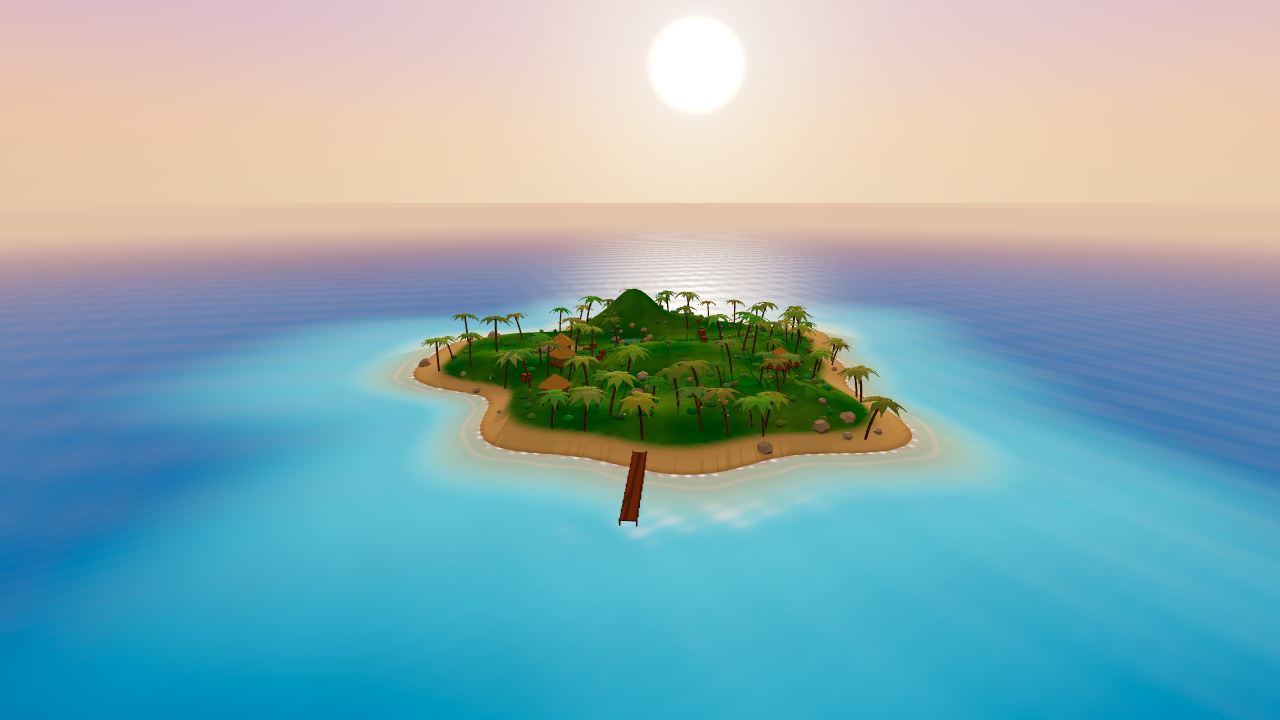
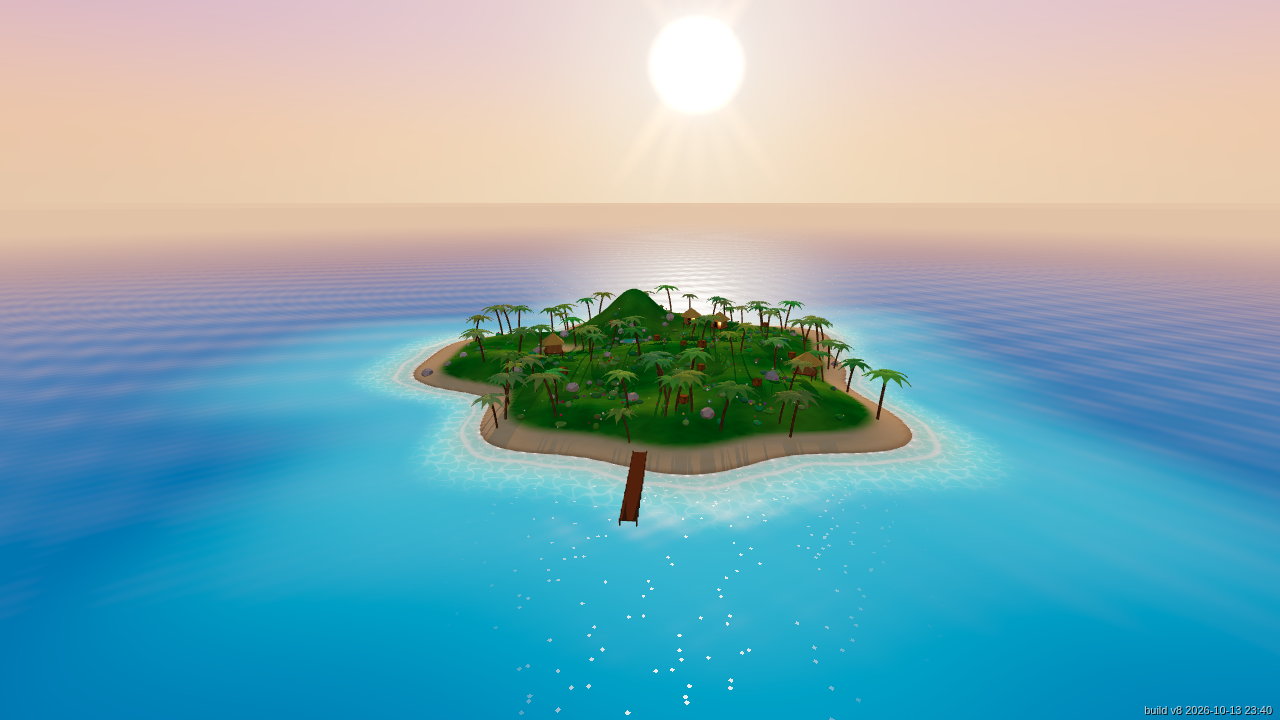
v8: rate-limited eased auto-aim retarget, build version + cache busting, golden-hour lighting, lanterns, fireflies, tropical water shader

diff --git a/main.js b/main.js
@@ -1,13 +1,13 @@
-import * as THREE from 'three';import {makeSoldier} from './soldier.js';import {makeHeli,makeChute} from './heli.js';
-import {buildWorld,groundH,islandD,shoreR,SUN_DIR,FOG_COLOR} from './world.js';
-const $=id=>document.getElementById(id),Q=new URLSearchParams(location.search),DEBUG=Q.get('debug')==='1';
+import * as THREE from 'three';import {makeSoldier} from './soldier.js?v8';import {makeHeli,makeChute} from './heli.js?v8';
+import {buildWorld,groundH,islandD,shoreR,SUN_DIR,FOG_COLOR} from './world.js?v8';
+export const BUILD='v8 2026-10-13 23:40';const $=id=>document.getElementById(id),Q=new URLSearchParams(location.search),DEBUG=Q.get('debug')==='1';
 const MOBILE=matchMedia('(pointer:coarse)').matches||'ontouchstart' in window;if(MOBILE)document.body.classList.add('touch');
 const renderer=new THREE.WebGLRenderer({antialias:!MOBILE,powerPreference:'high-performance'});renderer.setPixelRatio(Math.min(devicePixelRatio,MOBILE?1.5:2));renderer.setSize(innerWidth,innerHeight);
 renderer.shadowMap.enabled=true;renderer.shadowMap.type=THREE.PCFSoftShadowMap;renderer.toneMapping=THREE.ACESFilmicToneMapping;renderer.toneMappingExposure=1.1;renderer.outputColorSpace=THREE.SRGBColorSpace;document.body.appendChild(renderer.domElement);
 const scene=new THREE.Scene();scene.fog=new THREE.Fog(FOG_COLOR,90,520);
 const cam=new THREE.PerspectiveCamera(70,innerWidth/innerHeight,.1,7000);cam.rotation.order='YXZ';
-scene.add(new THREE.HemisphereLight(0xffd2a8,0x3a5230,1.0));
-const sun=new THREE.DirectionalLight(0xffb878,2.6);sun.castShadow=true;const S=MOBILE?1024:2048;sun.shadow.mapSize.set(S,S);
+scene.add(new THREE.HemisphereLight(0xb4c2e8,0x5a4a30,.95));const rim=new THREE.DirectionalLight(0xffd0b0,.35);rim.position.set(60,30,80);scene.add(rim);
+const sun=new THREE.DirectionalLight(0xffb060,3.0);sun.castShadow=true;const S=MOBILE?1024:2048;sun.shadow.mapSize.set(S,S);
 Object.assign(sun.shadow.camera,{left:-30,right:30,top:30,bottom:-30,near:1,far:200});sun.shadow.bias=-.0003;sun.shadow.normalBias=.03;sun.shadow.radius=3;scene.add(sun,sun.target);
 const W=buildWorld(scene,MOBILE);const solids=W.solids;
 const rnd=(a,b)=>a+Math.random()*(b-a);
@@ -67,24 +67,39 @@ function collide(p,r){for(const c of W.circles){const dx=p.x-c.x,dz=p.z-c.z,d=Ma
  const R=Math.hypot(p.x,p.z),lim=shoreR(Math.atan2(p.z,p.x))*.97;if(R>lim){p.x*=lim/R;p.z*=lim/R;}}
 function jump(){if(mode==='play'&&player.position.y<=groundH(player.position.x,player.position.z)+.01){vy=6.5;snd(300,.15,'sine',.1,2);}}
 // ---------- shooting / auto-aim ----------
-const rc=new THREE.Raycaster(),center=new THREE.Vector2(0,0),tmpV=new THREE.Vector3(),losRc=new THREE.Raycaster();let lockT=null,losT=0,retWait=0,slow=null;const RET_DELAY=.25,RET_DUR=.7;
+const rc=new THREE.Raycaster(),center=new THREE.Vector2(0,0),tmpV=new THREE.Vector3(),losRc=new THREE.Raycaster();
+// ---- auto-aim state machine ----
+// firstLock: true only between FIRE press and the first time the aim settles on a target.
+// Every other target change (kill, LOS loss) is a "retarget": 0.25s pause, then an ease-in-out swing whose
+// duration is chosen so the PEAK turn rate stays <= ~110 deg/s, minimum 0.9s. No shots at a target until aligned.
+let lockT=null,losT=0,firstLock=false,wasFiring=false,pause=0,swing=null,aligned=false;
+const RET_PAUSE=.25,RET_MIN=.9,PEAK=110*Math.PI/180,FIRST_DUR=.3,ALIGN=2.5*Math.PI/180;
 const angD=a=>Math.atan2(Math.sin(a),Math.cos(a));
 function los(z){z.userData.head.getWorldPosition(tmpV);const d=tmpV.clone().sub(cam.position);const L=d.length();losRc.set(cam.position,d.normalize());losRc.far=L-.3;return !losRc.intersectObjects(solids,false).length;}
-function autoAim(dt){if(!(firing||fireId!==null)){lockT=null;slow=null;retWait=0;return;}
- if(lockT&&(lockT.userData.dead||!zombies.includes(lockT))){lockT=null;retWait=RET_DELAY;slow=null;}
- if(retWait>0){retWait-=dt;if(retWait>0)return;retWait=-1;}
- if(lockT&&(losT-=dt)<=0){losT=.25;if(!los(lockT))lockT=null;}
+function aimAngles(z){z.userData.head.getWorldPosition(tmpV);const d=tmpV.clone().sub(cam.position).normalize();return[Math.atan2(-d.x,-d.z),THREE.MathUtils.clamp(Math.asin(d.y),-.7,.55)];}
+function dropLock(){lockT=null;swing=null;aligned=false;if(!firstLock)pause=RET_PAUSE;}
+function autoAim(dt){const want=firing||fireId!==null;
+ if(!want){lockT=null;swing=null;aligned=false;pause=0;wasFiring=false;return;}
+ if(!wasFiring){wasFiring=true;firstLock=true;}
+ if(lockT&&(lockT.userData.dead||!zombies.includes(lockT))){dropLock();aimEv('kill');}
+ if(lockT&&(losT-=dt)<=0){losT=.25;if(!los(lockT)){dropLock();aimEv('los');}}
+ if(pause>0){pause-=dt;return;}
  if(!lockT){let best=null,bs=1e9;const f=new THREE.Vector3(-Math.sin(yaw),0,-Math.cos(yaw));
   for(const z of zombies){if(z.userData.dead)continue;const d=z.position.clone().sub(player.position);d.y=0;const dist=d.length();if(dist>45)continue;
-   const s=dist+Math.acos(THREE.MathUtils.clamp(d.normalize().dot(f),-1,1))*6;if(s<bs&&los(z)){bs=s;best=z;}}lockT=best;losT=.25;if(best&&retWait<0)slow={t:0,y0:yaw,p0:pitch};retWait=0;}
- if(!lockT)return;lockT.userData.head.getWorldPosition(tmpV);const d=tmpV.clone().sub(cam.position).normalize();
- const ty=Math.atan2(-d.x,-d.z),tp=THREE.MathUtils.clamp(Math.asin(d.y),-.7,.55);
- if(slow){slow.t+=dt;const u=Math.min(1,slow.t/RET_DUR),e=u*u*(3-2*u);yaw=slow.y0+angD(ty-slow.y0)*e;pitch=slow.p0+(tp-slow.p0)*e;if(u>=1)slow=null;}
- else{const k=Math.min(1,dt*12);yaw+=angD(ty-yaw)*k;pitch+=(tp-pitch)*k;}}
-function updLock(){const el=$('lock');if(!lockT||lockT.userData.dead){el.style.display='none';return;}el.style.opacity=slow?.5:1;lockT.userData.head.getWorldPosition(tmpV);tmpV.project(cam);
+   const s=dist+Math.acos(THREE.MathUtils.clamp(d.normalize().dot(f),-1,1))*6;if(s<bs&&los(z)){bs=s;best=z;}}
+  if(!best)return;lockT=best;losT=.25;aligned=false;const[ty,tp]=aimAngles(best);const ang=Math.hypot(angD(ty-yaw),tp-pitch);
+  // smoothstep peak speed = 1.5*ang/dur  ->  dur >= 1.5*ang/PEAK
+  swing={t:0,y0:yaw,p0:pitch,dur:firstLock?FIRST_DUR:Math.max(RET_MIN,1.5*ang/PEAK)};aimEv(firstLock?'firstlock':'retarget',swing.dur);}
+ const[ty,tp]=aimAngles(lockT);
+ if(swing){swing.t+=dt;const u=Math.min(1,swing.t/swing.dur),e=u*u*(3-2*u);yaw=swing.y0+angD(ty-swing.y0)*e;pitch=swing.p0+(tp-swing.p0)*e;if(u>=1)swing=null;}
+ else{const k=Math.min(1,dt*10);yaw+=angD(ty-yaw)*k;pitch+=(tp-pitch)*k;} // tracking a moving, already-acquired head
+ aligned=!swing&&Math.hypot(angD(ty-yaw),tp-pitch)<ALIGN;if(aligned)firstLock=false;}
+const aimLog=[];function aimEv(e,x){if(DEBUG)aimLog.push({t:gT,ev:e,x});}
+function aimErrDeg(){if(!lockT)return null;const[ty,tp]=aimAngles(lockT);return Math.hypot(angD(ty-yaw),tp-pitch)*180/Math.PI;}
+function updLock(){const el=$('lock');if(!lockT||lockT.userData.dead){el.style.display='none';return;}el.style.opacity=aligned?1:.45;lockT.userData.head.getWorldPosition(tmpV);tmpV.project(cam);
  if(tmpV.z>1){el.style.display='none';return;}el.style.display='block';el.style.left=((tmpV.x+1)/2*innerWidth)+'px';el.style.top=((1-tmpV.y)/2*innerHeight)+'px';}
 function shoot(){const u=player.userData;u.flash.visible=true;u.flashLight.intensity=8;u.flash.rotation.z=Math.random()*3;setTimeout(()=>{u.flash.visible=false;u.flashLight.intensity=0;},45);snd(900,.08,'square',.12,.2);
- if(lockT&&!slow){lockT.userData.head.getWorldPosition(tmpV);rc.set(cam.position,tmpV.clone().sub(cam.position).normalize());}else rc.setFromCamera(center,cam);rc.far=150;
+ if(lockT&&aligned){lockT.userData.head.getWorldPosition(tmpV);rc.set(cam.position,tmpV.clone().sub(cam.position).normalize());}else rc.setFromCamera(center,cam);rc.far=150;
  const hits=rc.intersectObjects([...zombies.filter(z=>!z.userData.dead),...solids,W.ground],true);
  const o=new THREE.Vector3();u.muzzle.getWorldPosition(o);let end=hits.length?hits[0].point:rc.ray.at(150,new THREE.Vector3());
  if(hits.length){const z=hits[0].object.userData.root;if(z&&!z.userData.dead){z.userData.hp--;z.userData.hit=.1;const p=end.clone().sub(o).setY(0).normalize();z.position.addScaledVector(p,.25);
@@ -137,7 +152,7 @@ function spawnPlayer(){let x=0,z=0;for(let k=0;k<50;k++){x=rnd(-6,6);z=rnd(-6,6)
 function startPlay(){mode='play';player.rotation.set(0,yaw+Math.PI,0);pitch=-.1;vy=0;document.body.classList.add('playing');running=true;wave=0;nextWave();updHud();}
 $('skipBtn').addEventListener('click',e=>{e.stopPropagation();skipIntro();});
 // ---------- game flow ----------
-function reset(){toSpawn=0;debris.forEach(d=>scene.remove(d.o));debris=[];lockT=null;zombies.forEach(z=>scene.remove(z));zombies=[];score=0;wave=0;hp=100;vy=0;updHud();}
+function reset(){toSpawn=0;debris.forEach(d=>scene.remove(d.o));debris=[];lockT=null;swing=null;wasFiring=false;zombies.forEach(z=>scene.remove(z));zombies=[];score=0;wave=0;hp=100;vy=0;updHud();}
 function nextWave(){if(mode!=='play')return;wave++;toSpawn=4+wave*3;spawnT=1;snd(200,.6,'sawtooth',.1,2);}
 function begin(){ac=ac||new(window.AudioContext||window.webkitAudioContext)();ac.resume&&ac.resume();$('start').classList.add('hide');$('over').classList.add('hide');reset();fireT=0;
  if(introDone){spawnPlayer();yaw=0;startPlay();}else startIntro();}
@@ -145,11 +160,11 @@ $('startBtn').onclick=begin;$('restartBtn').onclick=begin;
 // ---------- loop ----------
 const camRc=new THREE.Raycaster(),clock=new THREE.Clock(),closeup=Q.get('view')==='closeup';let camOverride=null;
 spawnPlayer();
-function loop(){requestAnimationFrame(loop);const dt=Math.min(clock.getDelta(),.05),T=clock.elapsedTime;const P=player.position;
+let gT=0;function loop(){requestAnimationFrame(loop);const dt=Math.min(clock.getDelta(),.05),T=clock.elapsedTime;gT+=dt;const P=player.position;
  if(mode==='intro')intro(dt);updHeli(dt);
  if(running){const v=moveInput();const m=v.length();const gh0=groundH(P.x,P.z);const spd=gh0<.3?4:6.5;P.addScaledVector(v,spd*dt);collide(P,.4);curSpeed=m;
   const gh=groundH(P.x,P.z);vy-=20*dt;P.y+=vy*dt;if(P.y<=gh){P.y=gh;vy=0;}player.rotation.y=yaw+Math.PI;
-  autoAim(dt);fireT-=dt;if((firing||fireId!==null)&&fireT<=0){shoot();fireT=.1;}
+  autoAim(dt);fireT-=dt;if((firing||fireId!==null)&&fireT<=0&&(aligned||(!lockT&&pause<=0))){shoot();fireT=.1;}
   const alive=zombies.filter(z=>!z.userData.dead).length;
   if(toSpawn>0){spawnT-=dt;if(spawnT<=0&&alive<ZCAP){spawn();toSpawn--;spawnT=Math.max(.35,1.4-wave*.1);}}else if(!zombies.length){nextWave();updHud();}
   for(const z of [...zombies]){const u=z.userData;
@@ -161,6 +176,7 @@ function loop(){requestAnimationFrame(loop);const dt=Math.min(clock.getDelta(),.
    else if(P.y-z.position.y<1.2){hp-=22*dt;updHud();if(Math.random()<dt*3)snd(80,.2,'sawtooth',.1,.5);
     if(hp<=0){running=false;mode='over';lockT=null;firing=false;fireId=null;document.body.classList.remove('playing');document.exitPointerLock&&document.exitPointerLock();$('final').textContent=`Score ${score} · Wave ${wave}`;$('over').classList.remove('hide');snd(300,1.2,'sawtooth',.2,.1);}}
    z.position.y=groundH(z.position.x,z.position.z);}}
+ if(DEBUG&&running&&(firing||fireId!==null))aimLog.push({t:gT,yaw:yaw*180/Math.PI,pitch:pitch*180/Math.PI,err:aimErrDeg(),aligned,lock:lockT?zombies.indexOf(lockT):-1});
  updDebris(dt);updLock();
  player.userData.animate(T,mode==='intro'?0:curSpeed,mode==='intro'?(iPhase==='free'||iPhase==='chute'):P.y>groundH(P.x,P.z)+.05,dt);
  for(const t of [...tracers]){t.userData.life-=dt;t.material.opacity=t.userData.life/.06;if(t.userData.life<=0){scene.remove(t);t.geometry.dispose();tracers.splice(tracers.indexOf(t),1);}}
@@ -175,8 +191,9 @@ function loop(){requestAnimationFrame(loop);const dt=Math.min(clock.getDelta(),.
  const nn=alt>150?1.5:.1;if(cam.near!==nn){cam.near=nn;cam.updateProjectionMatrix();}
  const sc=mode==='intro'?(iPhase==='heli'?heli.position:P):P;sun.position.copy(sc).addScaledVector(SUN_DIR,90);sun.target.position.copy(sc);
  W.update(T,cam);renderer.render(scene,cam);}
+$('ver').textContent='build '+BUILD;
 if(closeup){$('start').classList.add('hide');$('hud').classList.add('hide');}
-if(DEBUG)window.__game={get mode(){return mode},get phase(){return iPhase},get score(){return score},get heads(){return headsDetached},get yaw(){return yaw},get alt(){return player.position.y},get retarget(){return {slow:!!slow,retWait}},
+if(DEBUG)window.__game={get mode(){return mode},get phase(){return iPhase},get score(){return score},get heads(){return headsDetached},get yaw(){return yaw},get alt(){return player.position.y},aimLog,
  setAlt(y){player.position.y=y;},overview(on){camOverride=on?[new THREE.Vector3(...on[0]),new THREE.Vector3(...on[1])]:null;},
  spawnNear(){spawn();const z=zombies[zombies.length-1];z.position.set(player.position.x-Math.sin(yaw)*5,0,player.position.z-Math.cos(yaw)*5);z.position.y=groundH(z.position.x,z.position.z);z.userData.hp=1;}};
 loop();

diff --git a/world.js b/world.js
@@ -35,6 +35,8 @@ export function buildWorld(scene,MOBILE){
  updaters.push((t,cam)=>{const y=cam.position.y;const inside=y>380&&y<820;cloudMats.forEach(m=>m.opacity+=((inside?.38:.85)-m.opacity)*.08);});
  {const c=document.createElement('canvas');c.width=c.height=128;const g=c.getContext('2d');const gr=g.createRadialGradient(64,64,0,64,64,64);gr.addColorStop(0,'rgba(255,240,200,1)');gr.addColorStop(.15,'rgba(255,190,120,.6)');gr.addColorStop(1,'rgba(255,140,80,0)');g.fillStyle=gr;g.fillRect(0,0,128,128);
   const glow=new THREE.Sprite(new THREE.SpriteMaterial({map:new THREE.CanvasTexture(c),blending:THREE.AdditiveBlending,fog:false,depthWrite:false,transparent:true,opacity:MOBILE?.6:.9}));glow.scale.set(520,520,1);scene.add(glow);
+  const rays=[];if(!MOBILE)for(let i=0;i<5;i++){const s=new THREE.Sprite(new THREE.SpriteMaterial({map:new THREE.CanvasTexture(c),color:0xffc890,blending:THREE.AdditiveBlending,fog:false,depthWrite:false,transparent:true,opacity:.12,rotation:-.6+i*.3}));s.scale.set(140,1600,1);scene.add(s);rays.push(s);}
+  updaters.push((t,cam)=>rays.forEach((s,i)=>{s.position.copy(cam.position).addScaledVector(SUN_DIR,2950);s.material.opacity=.08+.04*Math.sin(t*.3+i);}));
   updaters.push((t,cam)=>glow.position.copy(cam.position).addScaledVector(SUN_DIR,3000));}
  // ---- terrain ----
  const SEG=MOBILE?110:170,SZ=170;const tg=new THREE.PlaneGeometry(SZ,SZ,SEG,SEG);tg.rotateX(-Math.PI/2);const P=tg.attributes.position,col=new Float32Array(P.count*3),c=new THREE.Color();
@@ -52,13 +54,19 @@ export function buildWorld(scene,MOBILE){
   fragmentShader:`uniform float time,fogNear,fogFar;uniform vec3 sunDir,fogColor;varying vec3 wp;${GL_SHORE}
   void main(){vec2 p=wp.xz;float a=atan(p.y,p.x);float d=length(p)/shoreR(a);float t=time;
    vec2 g=vec2(.8,.6)*cos(dot(p,vec2(.8,.6))*.35+t*1.3)*.5+vec2(-.5,.86)*cos(dot(p,vec2(-.5,.86))*.53+t*1.7)*.35+vec2(.2,-.98)*cos(dot(p,vec2(.2,-.98))*1.1+t*2.3)*.2+vec2(.95,.3)*cos(dot(p,vec2(.95,.3))*2.3-t*2.9)*.12;
-   float dist=length(cameraPosition-wp);float att=1./(1.+dist*.025);vec3 n=normalize(vec3(-g.x*.35*att,1.,-g.y*.35*att));vec3 v=normalize(cameraPosition-wp);
-   vec3 col=mix(vec3(.2,.88,.8),vec3(.02,.42,.62),smoothstep(1.,1.3,d));col=mix(col,vec3(.0,.13,.33),smoothstep(1.25,2.2,d));col=mix(col,vec3(.0,.07,.2),smoothstep(2.2,8.,d));
-   float fr=pow(1.-max(dot(n,v),0.),4.);col=mix(col,vec3(.75,.42,.42),fr*.3);col*=.92+.16*(n.x*3.+.5);
-   vec3 r=reflect(-sunDir,n);float sp=max(dot(r,v),0.);col+=vec3(1.,.75,.45)*(pow(sp,80.)*1.2+pow(sp,1200.)*8.);
-   float wv=sin(t*1.4+a*30.)*.006+sin(t*.9)*.01;float f=smoothstep(1.04+wv,1.0,d)*step(.995,d+.01);float st=.55+.45*sin(p.x*2.1+t*2.)*sin(p.y*2.3-t*1.6);
+   float dist=length(cameraPosition-wp);float att=1./(1.+dist*.025);vec3 n=normalize(vec3(-g.x*.28*att,1.,-g.y*.28*att));vec3 v=normalize(cameraPosition-wp);
+   float sh=1.-smoothstep(1.,1.28,d);
+   vec3 sand=vec3(.95,.85,.6);vec3 col=mix(vec3(.0,.7,.72),vec3(.0,.36,.6),smoothstep(1.02,1.3,d));col=mix(col,vec3(.0,.14,.34),smoothstep(1.25,2.1,d));col=mix(col,vec3(.0,.06,.2),smoothstep(2.1,7.,d));
+   col=mix(col,sand*vec3(.7,1.,.92),sh*sh*.2);
+   vec2 q=p*1.7;float ca=abs(sin(q.x+t*.9+sin(q.y*1.3+t*.6))+sin(q.y*1.1-t*.7+sin(q.x*.8-t*.5)));float cs=pow(max(0.,1.-ca*.55),6.)*sh;col+=vec3(.8,1.,.9)*cs*.3;
+   vec3 rd=reflect(-v,n);float rh=max(rd.y,0.);vec3 sky=mix(vec3(1.,.55,.35),vec3(.5,.32,.55),smoothstep(0.,.3,rh));sky=mix(sky,vec3(.15,.2,.45),smoothstep(.3,.9,rh));
+   float fr=.02+.98*pow(1.-max(dot(n,v),0.),5.);col=mix(col,sky,clamp(fr*.5,0.,.3));
+   vec3 r=reflect(-sunDir,n);float sp=max(dot(r,v),0.);col+=vec3(1.,.75,.45)*(pow(sp,60.)*.9+pow(sp,700.)*6.);
+   vec2 cell=floor(p*3.);float hsh=fract(sin(dot(cell,vec2(12.9898,78.233))+floor(t*6.)*.37)*43758.5);float path=pow(max(dot(normalize(vec3(sunDir.x,0.,sunDir.z)),normalize(vec3(-v.x,0.,-v.z))),0.),40.);
+   col+=vec3(1.,.85,.6)*step(.985,hsh)*path*att*3.;
+   float wv=sin(t*1.4+a*30.)*.006+sin(t*.9)*.01;float f=smoothstep(1.022+wv,1.0,d)*step(.995,d+.01);float st=.55+.45*sin(p.x*2.1+t*2.)*sin(p.y*2.3-t*1.6);
    f=max(f*st,smoothstep(1.075+wv,1.06+wv,d)*smoothstep(1.045+wv,1.06+wv,d)*.6);col=mix(col,vec3(1.),clamp(f,0.,1.)*.9);
-   float al=mix(.55,1.,smoothstep(1.,1.25,d));
+   float al=mix(.72,1.,smoothstep(1.,1.18,d));
    col=mix(col,fogColor,smoothstep(fogNear*1.5,fogFar*1.8,dist)*.9);gl_FragColor=vec4(col,max(al,f));
    #include <tonemapping_fragment>
    #include <colorspace_fragment>
@@ -69,6 +77,7 @@ export function buildWorld(scene,MOBILE){
   if(Math.hypot(x,z)<minC)continue;if(Math.hypot(x-HILL.x,z-HILL.z)<8||Math.hypot(x-POND.x,z-POND.z)<5.5)continue;if(taken.some(o=>Math.hypot(o.x-x,o.z-z)<o.r+r))continue;taken.push({x,z,r});return[x,z];}return[rnd(-20,20),rnd(-20,20)];};
  const m4=new THREE.Matrix4(),q=new THREE.Quaternion(),sc=new THREE.Vector3(),pv=new THREE.Vector3(),eu=new THREE.Euler();
  const setM=(im,i,x,y,z,ry,s,sy=s,rx=0)=>{eu.set(rx,ry,0);q.setFromEuler(eu);im.setMatrixAt(i,m4.compose(pv.set(x,y,z),q,sc.set(s,sy,s)));};
+ const glowTex=(()=>{const c=document.createElement('canvas');c.width=c.height=64;const g=c.getContext('2d');const gr=g.createRadialGradient(32,32,0,32,32,32);gr.addColorStop(0,'rgba(255,255,255,1)');gr.addColorStop(.3,'rgba(255,255,255,.35)');gr.addColorStop(1,'rgba(255,255,255,0)');g.fillStyle=gr;g.fillRect(0,0,64,64);return new THREE.CanvasTexture(g.canvas);})();
  // ---- huts ----
  const bamboo=(()=>{const c=document.createElement('canvas');c.width=64;c.height=8;const g=c.getContext('2d');for(let i=0;i<8;i++){g.fillStyle=i%2?'#c79a5b':'#ad7f45';g.fillRect(i*8,0,8,8);}const t=new THREE.CanvasTexture(c);t.wrapS=t.wrapT=THREE.RepeatWrapping;t.repeat.set(3,1);t.colorSpace=THREE.SRGBColorSpace;return t;})();
  const wood=new THREE.MeshLambertMaterial({color:0x8a5a32}),wallM=new THREE.MeshLambertMaterial({map:bamboo}),straw=new THREE.MeshLambertMaterial({color:0xd9b45a,flatShading:true}),darkM=new THREE.MeshLambertMaterial({color:0x2a1a0e});
@@ -79,6 +88,10 @@ export function buildWorld(scene,MOBILE){
   add(new THREE.PlaneGeometry(1,1.6),darkM,g,0,y0+2.2,1.66,false);
   const r=add(new THREE.ConeGeometry(3.3,2.4,i%2?4:8),straw,g,0,y0+4.6,0);r.rotation.y=Math.PI/4;solids.push(r);
   for(let k=0;k<4;k++)add(new THREE.BoxGeometry(.9,.06,.12),wood,g,0,y0+.3+k*.3,2.4+k*.05);
+  {const lp=new THREE.Vector3(1.3,y0+2.9,1.9);const lan=add(new THREE.SphereGeometry(.16,10,8),new THREE.MeshBasicMaterial({color:0xffc060}),g,lp.x,lp.y,lp.z,false);
+   const gl=new THREE.Sprite(new THREE.SpriteMaterial({map:glowTex,color:0xffa040,blending:THREE.AdditiveBlending,transparent:true,depthWrite:false}));gl.scale.set(2.2,2.2,1);gl.position.copy(lp);g.add(gl);
+   if(!MOBILE){const pl=new THREE.PointLight(0xff9a40,6,9,1.6);pl.position.copy(lp);g.add(pl);updaters.push(t=>{pl.intensity=5+Math.sin(t*9+x)*.8+Math.sin(t*23+z)*.4;});}
+   updaters.push(t=>{gl.material.opacity=.75+Math.sin(t*9+x)*.15;});}
   circles.push({x,z,r:2.6});}
  // ---- pier ----
  {const a0=.95,r0=shoreR(a0)*.92,dx=Math.cos(a0),dz=Math.sin(a0);const g=new THREE.Group();g.position.set(dx*r0,0,dz*r0);g.rotation.y=Math.atan2(dx,dz);scene.add(g);
@@ -122,4 +135,7 @@ export function buildWorld(scene,MOBILE){
  const crateT=(()=>{const c=document.createElement('canvas');c.width=c.height=64;const g=c.getContext('2d');g.fillStyle='#c98b3c';g.fillRect(0,0,64,64);g.strokeStyle='#7a4f1c';g.lineWidth=6;g.strokeRect(3,3,58,58);g.beginPath();g.moveTo(3,3);g.lineTo(61,61);g.stroke();const t=new THREE.CanvasTexture(c);t.colorSpace=THREE.SRGBColorSpace;return t;})();
  const crM=new THREE.MeshLambertMaterial({map:crateT});
  for(let i=0;i<12;i++){const[x,z]=free(1.6,.85,.15,7);const s=rnd(1,1.6);const m=add(new THREE.BoxGeometry(s,s,s),crM,scene,x,groundH(x,z)+s/2-.05,z);solids.push(m);boxes.push({x,z,hx:s/2,hz:s/2});}
+ {const NFF=MOBILE?40:90,pos=new Float32Array(NFF*3),base=[];for(let i=0;i<NFF;i++){const a=rnd(0,6.28),R=shoreR(a)*rnd(.1,.8),x=Math.cos(a)*R,z=Math.sin(a)*R;base.push([x,groundH(x,z)+rnd(.5,2.5),z,rnd(0,6)]);}
+  const geo=new THREE.BufferGeometry();geo.setAttribute('position',new THREE.BufferAttribute(pos,3));const ff=new THREE.Points(geo,new THREE.PointsMaterial({map:glowTex,color:0xfff08a,size:.45,transparent:true,depthWrite:false,blending:THREE.AdditiveBlending}));ff.frustumCulled=false;scene.add(ff);
+  updaters.push(t=>{for(let i=0;i<NFF;i++){const b=base[i];pos[i*3]=b[0]+Math.sin(t*.5+b[3])*1.2;pos[i*3+1]=b[1]+Math.sin(t*.9+b[3]*2)*.4;pos[i*3+2]=b[2]+Math.cos(t*.4+b[3])*1.2;}geo.attributes.position.needsUpdate=true;ff.material.opacity=.6+.4*Math.sin(t*2);});}
  return{solids,circles,boxes,ground,water,fogU,update(t,cam){updaters.forEach(f=>f(t,cam));}};}

diff --git a/index.html b/index.html
@@ -22,13 +22,14 @@ button{font-family:inherit;font-size:30px;padding:18px 56px;border-radius:16px;b
 #stick{position:fixed;width:130px;height:130px;border-radius:50%;background:#fff2;border:2px solid #fff8;display:none;pointer-events:none;left:calc(30px + env(safe-area-inset-left));bottom:calc(30px + env(safe-area-inset-bottom))}
 #stick i{position:absolute;left:40px;top:40px;width:50px;height:50px;border-radius:50%;background:#fff9}.touch.playing #stick,.touch.intro #stick{display:block}
 #lock{position:fixed;width:34px;height:34px;margin:-17px 0 0 -17px;border:3px solid #ff3030;border-radius:50%;box-shadow:0 0 6px #f00;pointer-events:none;display:none}
-#skipBtn{position:fixed;left:50%;transform:translateX(-50%);top:calc(12px + env(safe-area-inset-top));font-size:22px;padding:10px 34px;margin:0;background:#fffc;color:#222;border:3px solid #ffcc1a}</style>
+#skipBtn{position:fixed;left:50%;transform:translateX(-50%);top:calc(12px + env(safe-area-inset-top));font-size:22px;padding:10px 34px;margin:0;background:#fffc;color:#222;border:3px solid #ffcc1a}#ver{position:fixed;right:calc(8px + env(safe-area-inset-right));bottom:calc(4px + env(safe-area-inset-bottom));font:11px Arial;color:#fffa;text-shadow:1px 1px 0 #000;pointer-events:none;z-index:5}
+</style>
 <script type="importmap">{"imports":{"three":"https://unpkg.com/three@0.160.0/build/three.module.js","three/addons/":"https://unpkg.com/three@0.160.0/examples/jsm/"}}</script>
 </head><body>
 <div id="hud">Score: <span id="score">0</span> &nbsp; Wave: <span id="wave">1</span><div id="hpbar"><div id="hp"></div></div></div>
-<div id="cross"></div><div id="lock"></div><button id="skipBtn" class="hide">SKIP ▶</button><div id="stick"><i></i></div>
+<div id="ver"></div><div id="cross"></div><div id="lock"></div><button id="skipBtn" class="hide">SKIP ▶</button><div id="stick"><i></i></div>
 <div id="fireBtn" class="tb">FIRE</div><div id="jumpBtn" class="tb">JUMP</div>
 <div id="start" class="ov"><h1>SOLDIER vs ZOMBIES</h1>
 <p>📱 Left thumb: move · Drag right side: look · hold FIRE (auto-aim) · JUMP<br>🖥 WASD move · Mouse look · Hold click: auto-aim shoot · Space jump · Esc frees mouse</p><button id="startBtn">PLAY</button></div>
 <div id="over" class="ov hide"><h1>GAME OVER</h1><p id="final"></p><button id="restartBtn">PLAY AGAIN</button></div>
-<script type="module" src="main.js"></script></body></html>
+<script type="module" src="main.js?v8"></script></body></html>
